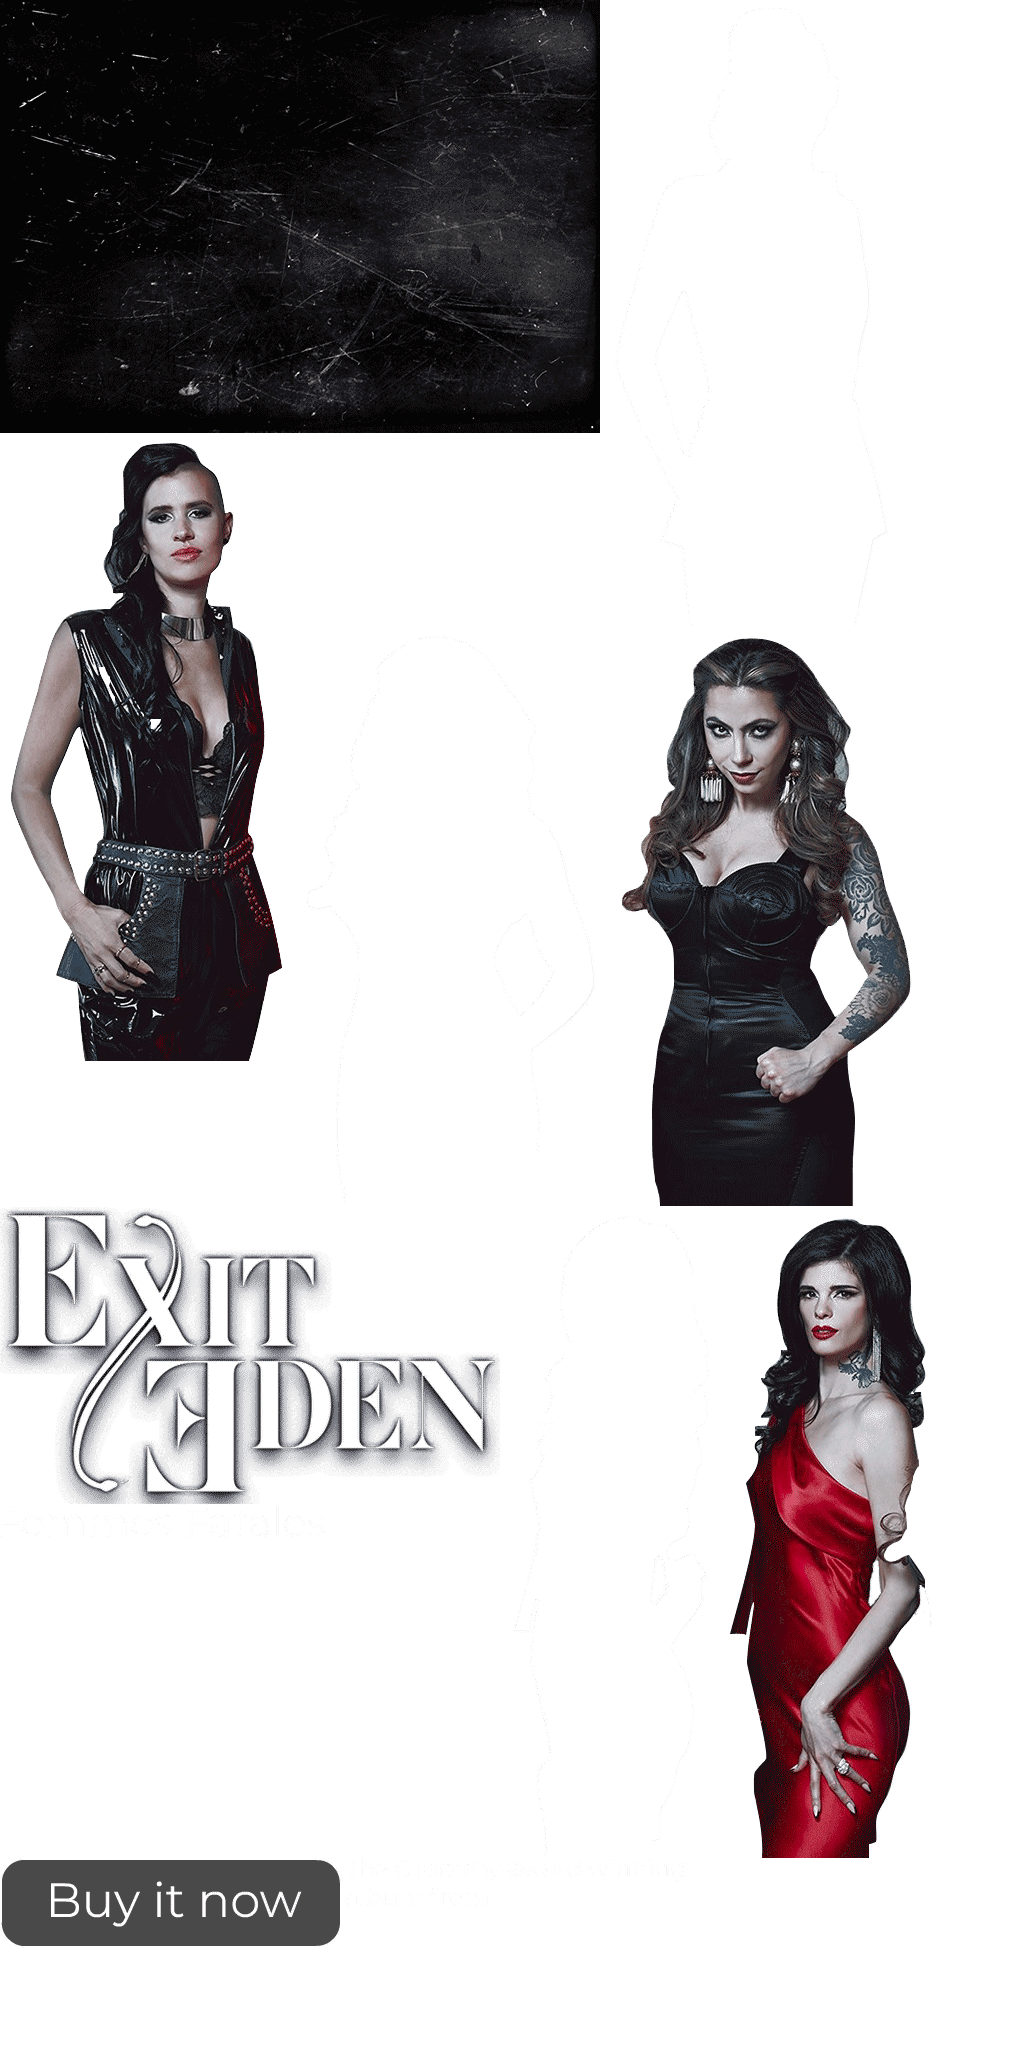
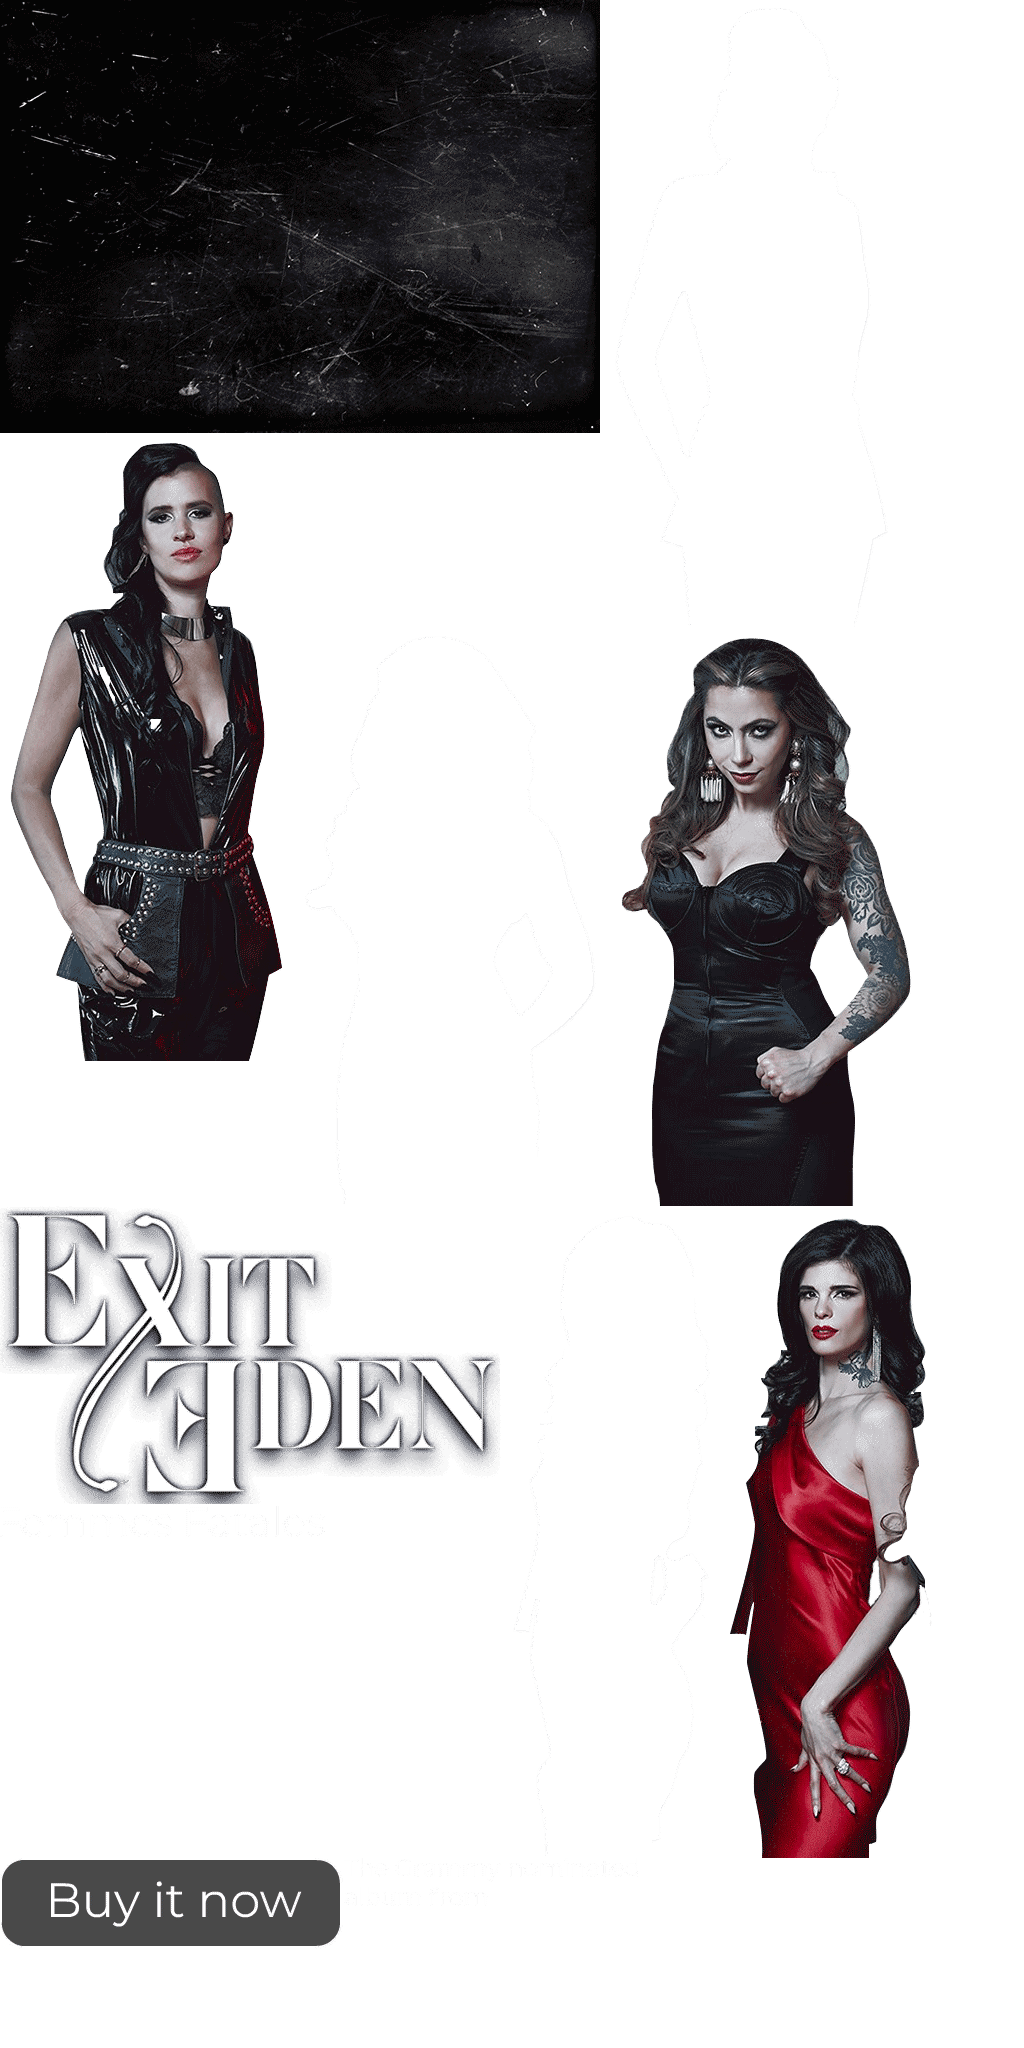
Add files via upload
Update to the Description text

diff --git a/ExitEdenAd.html b/ExitEdenAd.html
@@ -9,10 +9,6 @@
 -->
 <html>
 <head>
-	<meta name="ad.size" content=width=600,height=300>
-	<script type"text/javascript">
-		var clicktag = "";
-	</script>
 <meta charset="UTF-8">
 <meta name="authoring-tool" content="Adobe_Animate_CC">
 <title>ExitEdenAd</title>
@@ -34,8 +30,8 @@ function init() {
 	loader.loadManifest(lib.properties.manifest);
 }
 function handleFileLoad(evt, comp) {
-	var images=comp.getImages();
-	if (evt && (evt.item.type == "image")) { images[evt.item.id] = evt.result; }
+	var images=comp.getImages();	
+	if (evt && (evt.item.type == "image")) { images[evt.item.id] = evt.result; }	
 }
 function handleComplete(evt,comp) {
 	//This function is always called, irrespective of the content. You can use the variable "stage" after it is created in token create_stage.
@@ -48,23 +44,21 @@ function handleComplete(evt,comp) {
 	}
 	exportRoot = new lib.ExitEdenAd();
 	stage = new lib.Stage(canvas);
-	stage.enableMouseOver();
+	stage.enableMouseOver();	
 	//Registers the "tick" event listener.
 	fnStartAnimation = function() {
 		stage.addChild(exportRoot);
 		createjs.Ticker.framerate = lib.properties.fps;
 		createjs.Ticker.addEventListener("tick", stage);
-	}
+	}	    
 	//Code to support hidpi screens and responsive scaling.
-	AdobeAn.makeResponsive(true,'both',false,1,[canvas,anim_container,dom_overlay_container]);
+	AdobeAn.makeResponsive(true,'both',false,1,[canvas,anim_container,dom_overlay_container]);	
 	AdobeAn.compositionLoaded(lib.properties.id);
 	fnStartAnimation();
 }
 </script>
 <!-- write your code here -->
 </head>
-<a href="javascript:void(window.open(clicking))">
-</a>
 <body onload="init();" style="margin:0px;">
 	<div id="animation_container" style="background-color:rgba(255, 255, 255, 1.00); width:600px; height:300px">
 		<canvas id="canvas" width="600" height="300" style="position: absolute; display: block; background-color:rgba(255, 255, 255, 1.00);"></canvas>

diff --git a/ExitEdenAd.js b/ExitEdenAd.js
@@ -3,7 +3,7 @@
 var p; // shortcut to reference prototypes
 var lib={};var ss={};var img={};
 lib.ssMetadata = [
-		{name:"ExitEdenAd_atlas_1", frames: [[0,1506,324,30],[344,1858,340,47],[0,1858,342,90],[0,0,600,433],[502,1208,218,648],[293,628,314,576],[602,0,300,626],[722,1208,209,650],[609,628,310,578],[0,435,291,626],[0,1206,500,298]]}
+		{name:"ExitEdenAd_atlas_1", frames: [[0,1506,324,30],[344,1858,294,47],[0,1858,342,90],[0,0,600,433],[502,1208,218,648],[293,628,314,576],[602,0,300,626],[722,1208,209,650],[609,628,310,578],[0,435,291,626],[0,1206,500,298]]}
 ];
 
 
@@ -208,7 +208,7 @@ if (reversed == null) { reversed = false; }
 }).prototype = getMCSymbolPrototype(lib.ExitEden, new cjs.Rectangle(0,0,242,144.3), null);
 
 
-(lib.Description = function(mode,startPosition,loop,reversed) {
+(lib.DesciptionEdit1 = function(mode,startPosition,loop,reversed) {
 if (loop == null) { loop = true; }
 if (reversed == null) { reversed = false; }
 	var props = new Object();
@@ -227,7 +227,7 @@ if (reversed == null) { reversed = false; }
 
 	this._renderFirstFrame();
 
-}).prototype = getMCSymbolPrototype(lib.Description, new cjs.Rectangle(0,0,170,23.5), null);
+}).prototype = getMCSymbolPrototype(lib.DesciptionEdit1, new cjs.Rectangle(0,0,147,23.5), null);
 
 
 (lib.ClementineSilouette = function(mode,startPosition,loop,reversed) {
@@ -396,8 +396,8 @@ if (reversed == null) { reversed = false; }
 	this.timeline.addTween(cjs.Tween.get(this.instance_1).wait(125).to({alpha:1},0).wait(18));
 
 	// Description
-	this.instance_2 = new lib.Description();
-	this.instance_2.setTransform(113.2,53.5,1,1,0,0,0,85,11.7);
+	this.instance_2 = new lib.DesciptionEdit1();
+	this.instance_2.setTransform(101.75,53.75,1,1,0,0,0,73.5,11.7);
 	this.instance_2.alpha = 0;
 
 	this.timeline.addTween(cjs.Tween.get(this.instance_2).wait(91).to({alpha:1},15).wait(37));
